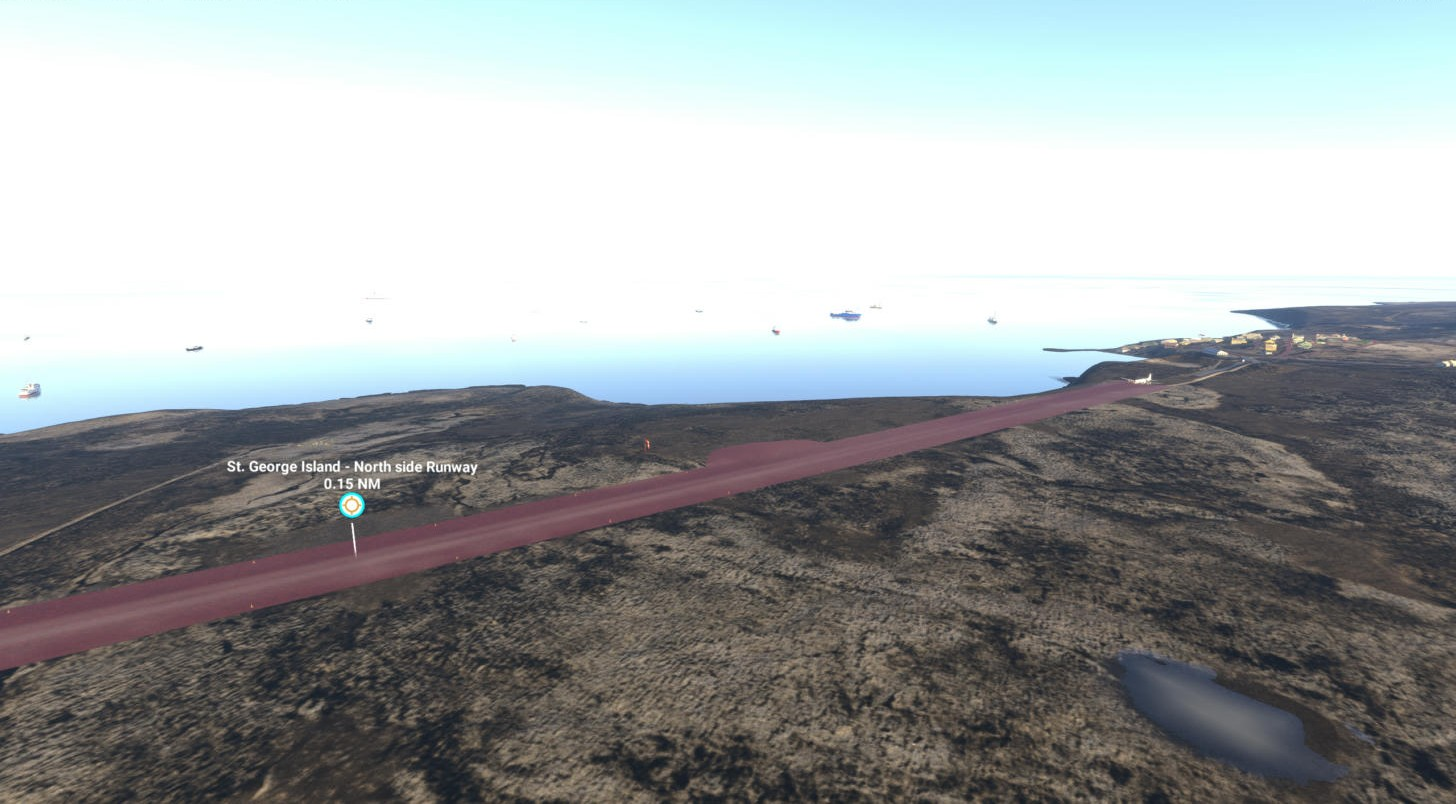
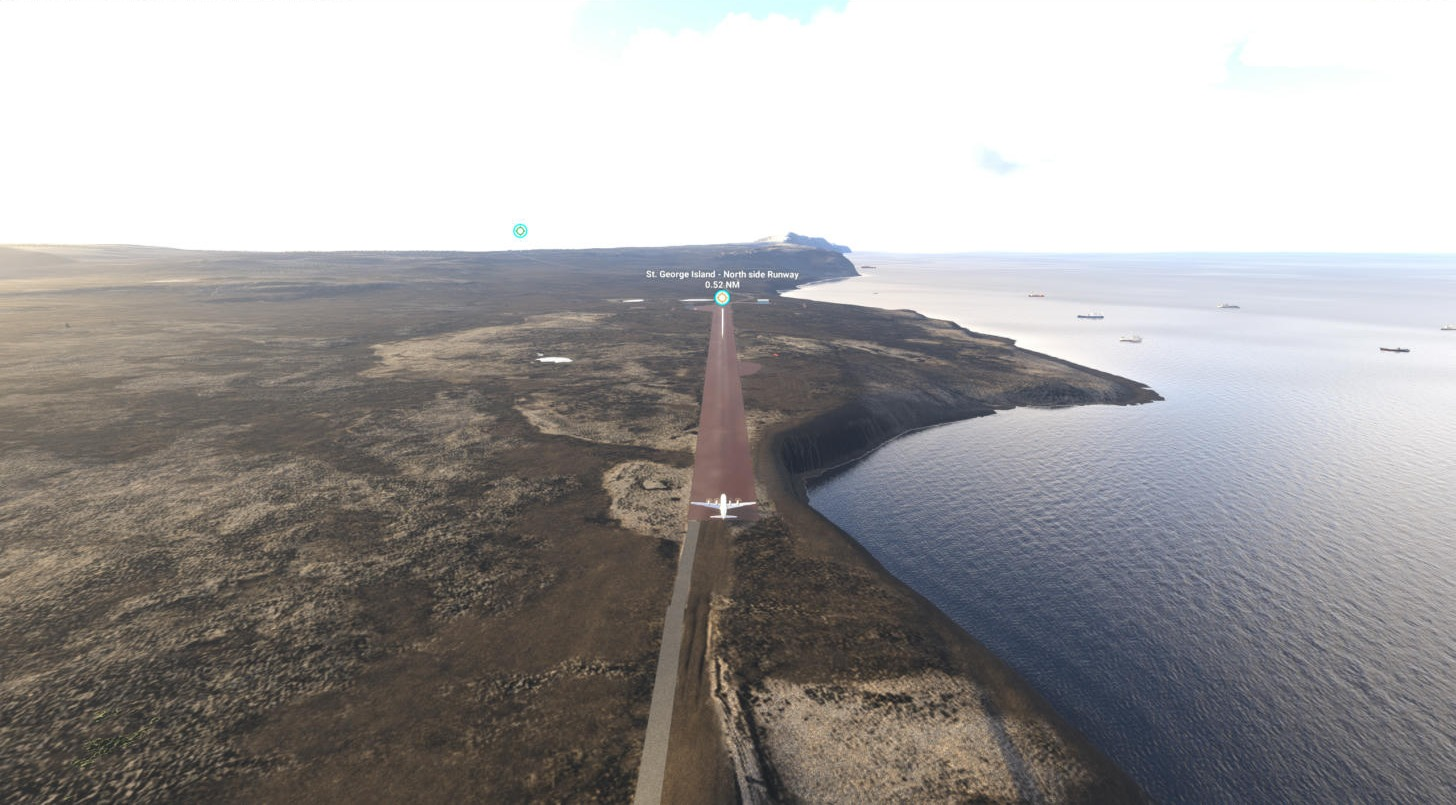
Version 1.6.0: tributes to Mom and Dad
- Dad's ops pickup with orange beacons on the track west of the runway
  (stock Pickup 01, AERIALAD_02), where he parked to guide pilots in
- Mom's silver sedan on the apron beside the flatbed (base library car)
- README: "For Mom and Dad" section near the end with two photos, new aerial
  photos of the 26 and 08 ends, 1.6.0 notes

diff --git a/README.md b/README.md
@@ -40,14 +40,15 @@ scenery models the later, longer and wider strip – about 4,175 ft long and
 *The same strip in MSFS 2024, looking down the runway toward the village, with
 the cliffs and the fishing fleet off the north shore.*
 
-![Aerial view of the PSTG strip along St. George's north shore, with the village at the far end and fishing boats anchored offshore](docs/pstg-aerial.jpg)
+![Aerial view looking west down the red PSTG strip from beyond the 26 end, with a DC-6 at the threshold, the north cliffs and sea on the right and fishing boats anchored offshore](docs/pstg-aerial.jpg)
 
-*From the air: the strip running along the north shore toward the village.*
+*From the air, looking west down the strip from the 26 end, with the north
+cliffs and the fishing fleet offshore.*
 
-![The west end of the PSTG strip in MSFS 2024: a hangar and small plane on the red gravel apron, the runway stretching east, and the fuel site and gravel roads off to the right](docs/pstg-west-end.jpg)
+![The 08 end of the PSTG strip from the air: the hangar and a small plane on the west apron, the red runway running east toward the village, and the main apron, house and fuel tank to the right](docs/pstg-west-end.jpg)
 
-*The 08 end: the hangar apron, with the fuel site and gravel roads off to the
-right.*
+*The 08 end from the air: the hangar apron on the left, the runway running east
+toward the village, and the main apron, house and fuel tank to the right.*
 
 Until the early 1990s this short gravel strip was the main air link between
 St. George Island and the mainland. It lay right beside the north side of
@@ -106,6 +107,14 @@ copies.
 - Dust on landing and takeoff depends on the aircraft.
 
 ## What's new
+
+**1.6.0**
+- Two tributes to my parents, the island's cargo agents (NAC and MarkAir
+  Cargo): Dad's pickup with flashing orange beacons on the track west of the
+  runway, where he parked to guide pilots in before the strip had navaids, and
+  Mom's silver sedan on the apron. See "For Mom and Dad" below.
+- New photos: the approach with Dad's truck, Mom's sedan at the apron, and new
+  aerial views of the 26 end and the 08 end.
 
 **1.5.1**
 - East-end hills reshaped: one north–south ridge just past the 26 end, running
@@ -215,6 +224,34 @@ If you know scenery building, please **fork this repo** and send a pull
 request, or open an issue with ideas, corrections or history. Photos and
 memories of the old strip are very welcome. And if something looks wrong,
 it probably is. Tell me.
+
+## For Mom and Dad
+
+My parents were the cargo agents on the island, first for NAC (Northern Air
+Cargo) and also for MarkAir Cargo, which flew C-130s in for a while. They
+offloaded the planes, and my brother and I helped them as kids. I was at the
+airport a lot, so this runway, and building this scenery, brings back many
+memories. Two things in the scenery are there for them.
+
+**Dad's pickup with the orange lights.** West of the runway, on the gravel
+track toward the coast, there's a pickup truck parked with orange beacons
+flashing on the roof. In the early days the strip had no navaids of its own.
+Pilots used the St. Paul navaids, flew south to St. George, and in bad weather
+were talked in on radar. The pilots would ask my Dad to drive out to that spot,
+park, and flash his lights so they could find him and shoot the approach. Some
+good old-school flying.
+
+![On approach along St. George's north shore: a pickup with orange beacons on its roof parked on the red gravel track, the cliffs and the sea on the left, and the strip ahead](docs/pstg-approach-dads-truck.jpg)
+
+*On approach: Dad's truck, beacons on, marking the way in to the strip.*
+
+**Mom's sedan at the apron.** On the apron, parked beside the forklift and the
+flatbed, is a silver sedan. That's my Mom's car, parked where she worked as
+the cargo agent, meeting the planes.
+
+![The PSTG apron: a silver sedan parked beside a flatbed truck in front of the weather station house, with the red gravel apron and runway on the left and the fuel tank on the right](docs/pstg-apron-moms-sedan.jpg)
+
+*Mom's sedan at the apron, parked by the flatbed where she met the planes.*
 
 ## Building from source
 
